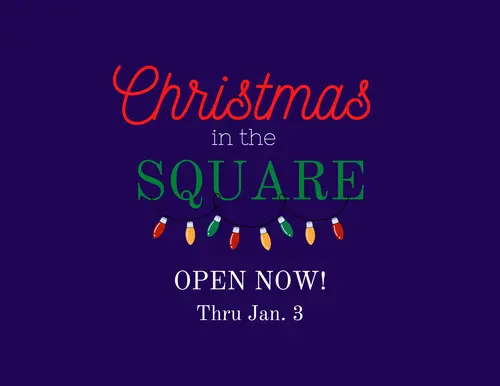
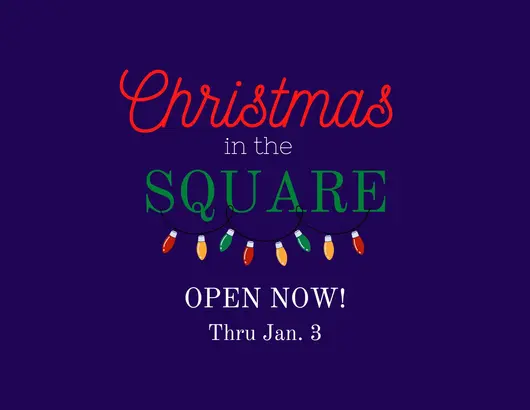
homepage image optimization

diff --git a/chamber/index.html b/chamber/index.html
@@ -46,14 +46,16 @@
             <div class="hero">
                 <h1>Welcome to Frisco!</h1>
                 <picture>
-                    <source media="(min-width: 960px)"
-                    srcset="images/cityhallMedium.webp">
+                    <source srcset="images/cityhallMedium.webp" media="(min-width: 519px) and (max-width: 959px)">
+                    <source srcset="images/cityhallLarge.webp" media="(min-width: 960px">
                     <img class="cityhall" src="images/cityhallSmall.webp" alt="Frisco City Hall">
                 </picture>
             </div>
             <div class="event">
                 <picture>
-                    <img class="christmas" src="images/eventFlyer.webp" alt="Christmas in the Square Flyer">
+                    <source srcset="images/flyerMedium.webp" media="(min-width: 519px) and (max-width: 959px)">
+                    <source srcset="images/eventFlyer.webp" media="(min-width: 960px">
+                    <img class="christmas" src="images/flyerSmall.webp" alt="Christmas in the Square Flyer">
                 </picture>
             </div>
             <div class="weather">
@@ -75,13 +77,13 @@
             <div class="spotlight">
                 <div class="spotlight1">
                     <img src="images/directory/ffs.webp" alt="Frisco Family Services Logo">
-                    <p>2345 Dogwood Rd Frisco TX 75034</p>
+                    <p class="address">2345 Dogwood Rd Frisco TX 75034</p>
                     <p>123-456-7890</p>
                     <p>friscofamilyservices.org</p>
                 </div>
                 <div class="spotlight2">
                     <img src="images/directory/tiffstreats.webp" alt="Tiff's Treats Logo">
-                    <p>1221 Dallas Pkwy Frisco TX 75034</p>
+                    <p class="address">1221 Dallas Pkwy Frisco TX 75034</p>
                     <p>714-445-7475</p>
                     <p>cookiedelivery.com</p>
                 </div>

diff --git a/chamber/styles/medium.css b/chamber/styles/medium.css
@@ -44,10 +44,16 @@
 
     .spotlight{
         grid-column: 1/4;
-        grid-row: 3/4;
         display: grid;
         grid-template-columns: 1fr 1fr;
-        height: auto;
+    }
+
+    .spotlight2 img{
+        height: 100px;
+    }
+
+    .address{
+        line-height: 20px;
     }
 
     .join{
